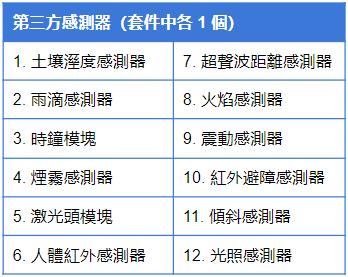
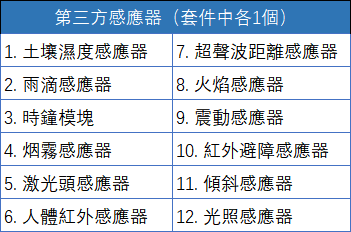
Update hub.md
-更新圖片
-更新模組使用説明
-將第三方感應器的介紹調整到【使用第三方感應器】的頁面

diff --git a/cocomod/hub.md b/cocomod/hub.md
@@ -4,7 +4,7 @@
 
 ## 模組簡介
 
-轉接模組上嵌有多組接口，用於多種外接設備如伺服馬達，馬達的轉接，還可以外接第三方感測器，如紅外線感測器和超聲波感測器等等。每組接口由地線（GND），電源輸出（VCC），訊號接口（Digital / Analog）組成。
+轉接模組上嵌有多組接口，用於多種外接設備如伺服馬達，馬達的轉接，還可以外接第三方感應器，如紅外線感應器和超聲波感應器等等。每組接口由地線（GND），電源輸出（VCC），訊號接口（Digital / Analog）組成。
 
 ## 模組主要部件
 
@@ -20,42 +20,54 @@
 
 ### 模組使用說明
 
-1. 其中，編碼「A」和「B」指示轉接模組上提供的不同訊號接口，編碼「1」和「2」指示轉接模組兩側不同類型的拼接口，也即接入型和接出型。 建議圈出圖中的接入口以突出區別
+1. 轉接模組上有較多針脚，使用時請小心謹慎，以免傷手；
 
-2. 轉接模組的接入方式存在有兩種：
+2. 其中，編碼「A」和「B」指示轉接模組上提供的不同訊號接口，編碼「1」和「2」指示轉接模組兩側不同類型的拼接口，也即接入型和接出型；
+
+3. 兩種類型拼接口的轉接模組儘在拼接口上存在區別，其他使用方法是一樣的；
+
+4. 轉接模組的接入方式存在有兩種：
 
 **接入型（轉接模組A1，轉接模組B1）**
 
-<div style="padding: 10px 0 10px 0;text-align: center;"><img src="../media/hub_3.jpg" width="100%" /></div>
+<div style="padding: 10px 0 10px 0;text-align: center;"><img src="../media/hub_3.jpg" width="70%" /></div>
 
 <b>接出型（轉接模組A2，轉接模組B2）</b>
 
-<div style="padding: 10px 0 10px 0;text-align: center;"><img src="../media/hub_2.jpg" width="100%" /></div>
+<div style="padding: 10px 0 10px 0;text-align: center;"><img src="../media/hub_2.jpg" width="70%" /></div>
 
-3. 轉接模組A1、轉接模組A2提供
-   - 數位訊號接口：0~7
+5. 轉接模組A1、轉接模組A2提供
+   - 數位訊號接口：D0~D7
    - 類比訊號接口：A0~A3
    - MISO、MOSI、SCK、SS、RST 和3.3V供電接口
 
-<div style="padding: 10px 0 10px 0;text-align: center;"><img src="../media/hub_4.jpg" width="70%" /></div>
+<div style="padding: 10px 0 10px 0;text-align: center;"><img src="../media/hub_4.png" width="70%" /></div>
 
-4. 轉接模組A1、轉接模組A2提供
-   - 數位訊號接口：6~13
+6. 轉接模組B1、轉接模組B2提供
+   - 數位訊號接口：D6~D13
    - 類比訊號接口：A4~A7
    - MISO、MOSI、SCK、SS、RST 和3.3V供電接口
 
-<div style="padding: 10px 0 10px 0;text-align: center;"><img src="../media/hub_5.jpg" width="70%" /></div>
+<div style="padding: 10px 0 10px 0;text-align: center;"><img src="../media/hub_5.png" width="70%" /></div>
+
+## 轉接模組基礎使用
 
 ### 使用第三方感應器
 
-5. 爲了讓用戶在使用智慧家居套件時有更多樣的創作可能性，我們提供了數 10 種第三方感應器，讓用戶有更多創作選擇。
+爲了讓用戶在使用智慧家居套件時有更多樣的創作可能性，我們提供了數 10 種第三方感應器，讓用戶有更多創作選擇。
 
 <div style="padding: 10px 0 10px 0;text-align: center;"><img src="../media/hub_6.png" width="90%" /></div>
-<div style="padding: 10px 0 10px 0;text-align: center;"><img src="../media/hub_7.png" width="40%" /></div>
 
+<div style="padding: 10px 0 30px 0;text-align: center;"><img src="../media/hub_7.png" width="40%" /></div>
+
+
+**關於第三方感應器的介紹及使用方法請參見 [使用第三方感應器](/cocomod/3rd-party)**
+
+
+<!--
 1. **土壤濕度感應器**
 將感應器插入土壤中，通過類比／數位轉換電壓訊號，即可檢測土壤水分，土壤越乾燥，輸出電壓越小，越濕潤輸出電壓越大。
-支持：數位訊號輸入、類比訊號輸入
+支持：數位訊號、類比訊號輸入
 
 2. **雨滴感應器**
 可用於不同天氣狀況的監測，並轉換成數位訊號或類比訊號；使用時，感應板上沒有水滴時，數位輸出爲高電平，開關指示燈滅，滴上一滴水，數位輸出爲低電平，開關指示燈亮。
@@ -65,7 +77,7 @@
 該模組具備時間功能，並且爲了斷電時依然可以保留時間。
 
 4. **煙霧感應器**
-當感應器所處環境中存在可燃性氣體時，感應器的電導率隨空氣中可燃氣體濃度的增加而增大，類比訊號對應的輸出電壓隨濃度越高電壓越高。
+當感應器所處環境中存在可燃性氣體時，感應器的電導率隨空氣中可燃性氣體濃度的增加而增大，類比訊號對應的輸出電壓隨濃度越高電壓越高。
 支持：數位訊號、類比訊號輸入
 
 <p style="color:rgba(0,0,0,.3);">（套件中不再含有該模組）5. 激光頭模組：
@@ -85,7 +97,7 @@
 支持：數位訊號、類比訊號輸入
 
 9. **震動感應器**
-用於各種震動觸發作用，不震動時，震動開關呈閉合導通狀態，輸出端輸出低電平，綠色指示燈亮。
+用於各種震動觸發作用，不震動時，震動開關呈閉合導通狀態，輸出端輸出低電平訊號，綠色指示燈亮。
 支持：數位訊號輸入
 
 10. **紅外避障感應器**
@@ -93,7 +105,7 @@
 支持：數位訊號輸入
 
 11. **傾斜感應器**
-感應器可感知物體角度的變化，將感應器平輕放桌面上，將模組朝一個方向慢慢旋轉，開關指示燈會點亮，然後再將模組朝相反的方向旋轉，回到最初的狀態，開關指示燈會滅。
+感應器可感知物體角度的變化，將感應器輕輕平放在桌面上，將模組朝一個方向慢慢旋轉，開關指示燈會點亮，然後再將模組朝相反的方向旋轉，回到最初的狀態，開關指示燈會滅。
 支持：數位訊號輸入
 
 12. **光照感應器**
@@ -105,6 +117,7 @@
 ## 轉接模組基礎使用
 
 請參見 [使用第三方感應器](/cocomod/3rd-party)
+-->
 
 <!--
 
